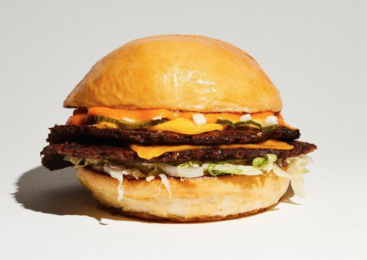
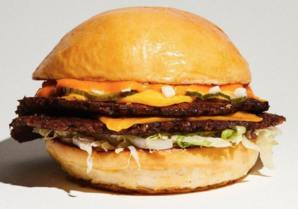
Background image resized (Home page)

diff --git a/styles/Home.module.css b/styles/Home.module.css
@@ -286,14 +286,13 @@
     display: flex;
     justify-content: center;
     align-items: center;
-    background-image: url('../public/burger3.png');
+    background-image: url('../public/burger3_resized.png');
     background-repeat: no-repeat;
     background-size: cover;
     background-attachment: fixed;
     background-position: center;
-    width: 300px;
-    height: 400px;
-    padding-top: 130px;
+    width: 100vw;
+    height: 100vh;
   }
 
 
